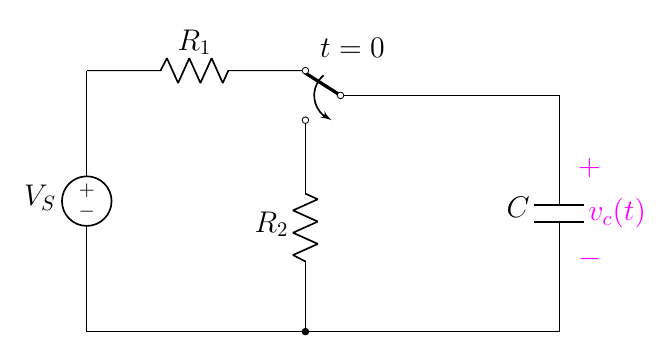
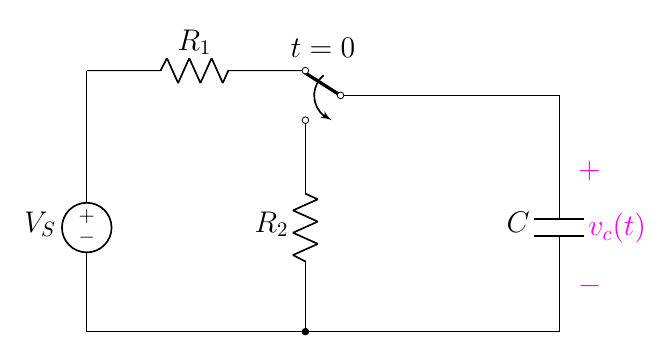
edit 7.4

diff --git a/2.2 Source-Free RC/7.2 Source-Free RC/7.4(new).tex b/2.2 Source-Free RC/7.2 Source-Free RC/7.4(new).tex
@@ -6,13 +6,15 @@
 
     %%% vertical %%%
     \draw(s) 
-        to[V,l=\vsname{}] (0,0 |- S1.out 2);
+        to[V,l=\vsname{}] (0,0 |- S1-out 1.n)
+        to[short] (s |- S1.out 2);
 
     \draw(S1-out 1.n |- 4,0)
         to[R,l=\rname{2}] (S1-out 1.n);
 
     \draw(8,0) 
-        to[C,l=\cname{}] (8,0 |- S1.in);
+        to[C,l=\cname{}] (8,0 |- S1-out 1.n)
+        to[short] (8,0 |- S1.in);
 
     %%% horizontal %%%
     \draw(s)
@@ -27,9 +29,9 @@
 
 
     %%% find %%%
-    \node at (4.5,4.8)[]{$t=0$};
-    \draw[magenta](8.2,1)
-        to[open, v>=$v_c(t)$] ++(0,2);
+    \node at (4,4.8)[]{$t=0$};
+    \draw[magenta](8.2,0.5)
+        to[open, v>=$v_c(t)$] ++(0,2.5);
 
 \end{circuitikz}
 \end{document}
